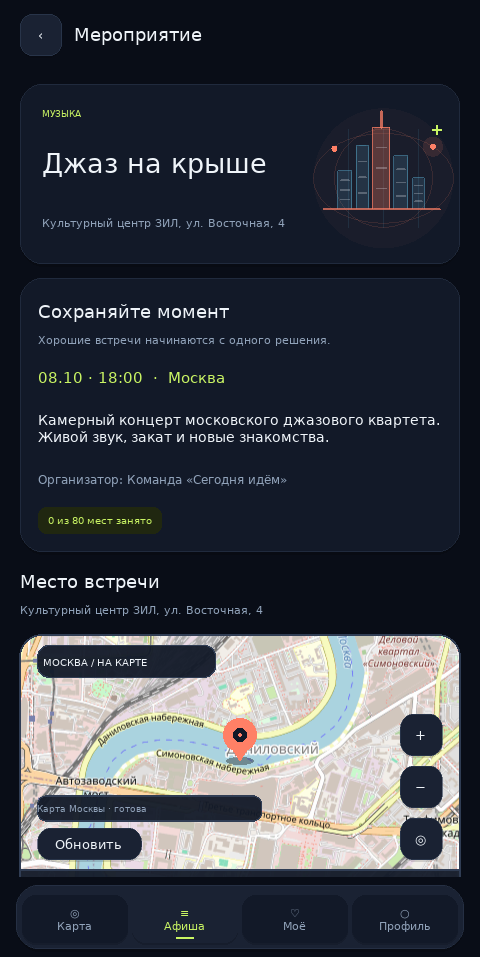
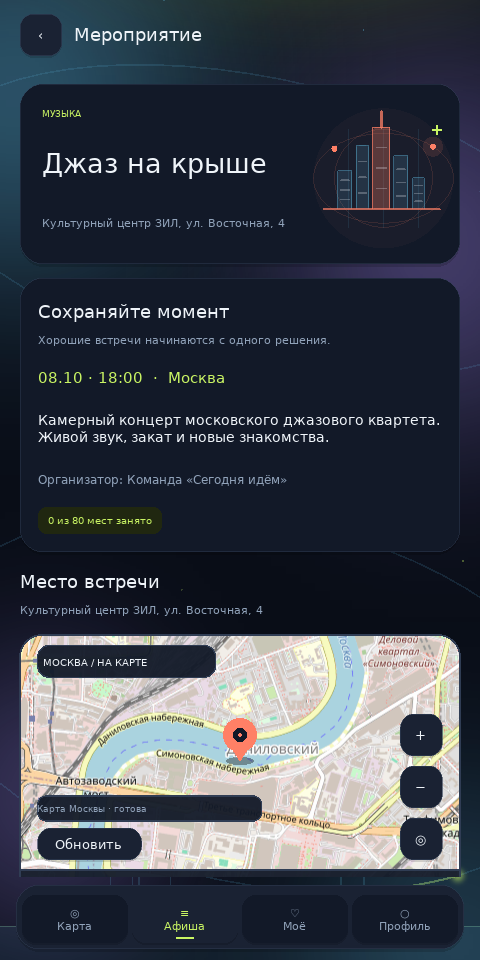
Verify Windows updates and document animated UI and phone setup

Changed region(s): [[0.0, 0.0, 1.0, 0.5], [0.0, 0.6562, 0.3438, 1.0], [0.5, 0.8125, 1.0, 1.0]]

diff --git a/scripts/capture_motion.py b/scripts/capture_motion.py
@@ -1,0 +1,155 @@
+"""Record the real Kivy auth/background animation without starting an API.
+
+Run with the client Python environment; Pillow is needed only for this capture:
+    pip install Pillow
+    python scripts/capture_motion.py
+
+For a headless Linux environment, set SDL_VIDEODRIVER=offscreen. The recording
+uses temporary settings and never submits forms, calls an API or shows a map.
+"""
+
+import argparse
+import os
+import sys
+import tempfile
+from pathlib import Path
+
+ROOT = Path(__file__).resolve().parents[1]
+sys.path.insert(0, str(ROOT / "client"))
+os.environ.setdefault("KIVY_HOME", str(ROOT / ".data/kivy-motion"))
+os.environ["TODAYGO_MAP_MODE"] = "offline"
+os.environ["TODAYGO_REDUCED_MOTION"] = "0"
+
+from kivy.clock import Clock
+from todaygo.application import TodayGoApp
+from todaygo.theme import Action, BG, CYAN, INK, LIME, MUTED, STROKE, SURFACE, SURFACE_HIGH, VIOLET
+
+
+def main():
+    parser = argparse.ArgumentParser(description=__doc__)
+    parser.add_argument("--output", type=Path, default=ROOT / "docs/animated-design.gif")
+    parser.add_argument("--fps", type=int, choices=range(1, 25), default=8)
+    parser.add_argument("--width", type=int, choices=range(180, 481), default=360)
+    args = parser.parse_args()
+    try:
+        from PIL import Image
+    except ImportError as exc:
+        raise SystemExit(
+            "Install the capture-only dependency: python -m pip install Pillow"
+        ) from exc
+
+    data = ROOT / ".data"
+    data.mkdir(exist_ok=True)
+    with tempfile.TemporaryDirectory(prefix="capture-motion-", dir=data) as temporary:
+        folder = Path(temporary)
+        settings = folder / "settings"
+        settings.mkdir()
+        screenshots = []
+
+        class MotionPreview(TodayGoApp):
+            @property
+            def user_data_dir(self):
+                return str(settings)
+
+            def build(self):
+                root = super().build()
+                self._start_event.cancel()
+                self._capture_event = None
+                self._timeline = []
+                self.go_auth()
+                return root
+
+            def run_api(self, fn, callback):
+                raise RuntimeError("The motion capture must not call the API")
+
+            def on_start(self):
+                def focus_email(_):
+                    self.screens["auth"].fields["email"].focus = True
+
+                def blur_email(_):
+                    self.screens["auth"].fields["email"].focus = False
+
+                def register(_):
+                    button = next(
+                        widget
+                        for widget in self.screens["auth"].walk()
+                        if isinstance(widget, Action) and widget.text == "Нет аккаунта? Регистрация"
+                    )
+                    button.trigger_action(duration=0.18)
+
+                for delay, action in (
+                    (1.0, focus_email),
+                    (1.7, blur_email),
+                    (2.1, register),
+                    (4.3, lambda _: self.go_connect()),
+                    (5.8, lambda _: self.go_auth()),
+                ):
+                    self._timeline.append(Clock.schedule_once(action, delay))
+                self._capture_event = Clock.schedule_interval(self._capture, 1 / args.fps)
+
+            def _capture(self, _):
+                target = folder / f"frame-{len(screenshots):03d}.png"
+                self.root.export_to_png(str(target))
+                screenshots.append(target)
+                if len(screenshots) >= 7 * args.fps:
+                    self.stop()
+                    return False
+
+            def on_stop(self):
+                if self._capture_event is not None:
+                    self._capture_event.cancel()
+                for event in self._timeline:
+                    event.cancel()
+                super().on_stop()
+
+        MotionPreview().run()
+        if len(screenshots) != 7 * args.fps:
+            raise RuntimeError("Capture stopped before all seven seconds were recorded")
+
+        frames = []
+        for filename in screenshots:
+            with Image.open(filename) as source:
+                height = round(source.height * args.width / source.width)
+                frames.append(
+                    source.convert("RGB").resize((args.width, height), Image.Resampling.LANCZOS)
+                )
+        # One palette for all frames prevents the gradients and text from flashing.
+        sw, sh = 96, round(frames[0].height * 96 / args.width)
+        atlas = Image.new("RGB", (sw * len(frames), sh))
+        for index, frame in enumerate(frames):
+            atlas.paste(frame.resize((sw, sh), Image.Resampling.LANCZOS), (index * sw, 0))
+        palette = atlas.quantize(
+            colors=256, method=Image.Quantize.MEDIANCUT, dither=Image.Dither.NONE
+        )
+        # Small white labels must stay white even when the gradients dominate the
+        # sampled image. Reserve the exact UI colours and a few anti-alias greys.
+        reserved = [BG, SURFACE, SURFACE_HIGH, STROKE, INK, MUTED, LIME, CYAN, VIOLET, (1, 1, 1, 1)]
+        for fraction in (0.15, 0.3, 0.45, 0.6, 0.75, 0.9):
+            reserved.append(
+                tuple(start + (end - start) * fraction for start, end in zip(SURFACE, INK))
+            )
+        colours = palette.getpalette()
+        for index, colour in enumerate(reserved, start=240):
+            colours[index * 3 : index * 3 + 3] = [round(channel * 255) for channel in colour[:3]]
+        palette.putpalette(colours)
+        paletted = [frame.quantize(palette=palette, dither=Image.Dither.NONE) for frame in frames]
+        # GIF durations have 10 ms precision, so alternate 120/130 ms at 8 fps.
+        durations = [
+            (round((i + 1) * 100 / args.fps) - round(i * 100 / args.fps)) * 10
+            for i in range(len(frames))
+        ]
+        args.output.parent.mkdir(parents=True, exist_ok=True)
+        paletted[0].save(
+            args.output,
+            save_all=True,
+            append_images=paletted[1:],
+            loop=0,
+            duration=durations,
+            disposal=2,
+            optimize=True,
+        )
+        print(f"Captured {len(frames)} real Kivy frames: {args.output}")
+
+
+if __name__ == "__main__":
+    main()

diff --git a/client/todaygo/screens.py b/client/todaygo/screens.py
@@ -766,7 +766,8 @@ class VerifyScreen(BaseScreen):
                 Paragraph(
                     text=(
                         "Сейчас включён режим разработки: письма не отправляются. "
-                        "Откройте READ_CODE_WINDOWS.bat в папке проекта и найдите код для своей "
+                        "На компьютере с сервером откройте READ_CODE_WINDOWS.bat "
+                        "в папке проекта и найдите код для своей "
                         "почты. Чтобы включить отправку писем, запустите CONFIGURE_EMAIL_WINDOWS.bat."
                     ),
                     size=11,
@@ -810,7 +811,7 @@ class VerifyScreen(BaseScreen):
 class ConnectionScreen(BaseScreen):
     def build(self):
         self.reset()
-        self.header("Подключить приложение", back=False)
+        self.header("Подключить приложение", back=not self.app.connection_required)
         scroll, column = scroll_column(18)
         self.layout.add_widget(scroll)
         column.add_widget(

diff --git a/scripts/capture_client.py b/scripts/capture_client.py
@@ -58,6 +58,14 @@ def start(_):
             ("home", "moscow-map.png", lambda: None),
             ("auth", "login.png", app.go_auth),
             ("auth", "registration.png", lambda: app.screens["auth"].build("register")),
+            (
+                "verify",
+                "email-code.png",
+                lambda: app.go_verify(
+                    {"challenge_id": "preview-only-challenge", "delivery": "development_file"}
+                ),
+            ),
+            ("connect", "android-connect.png", connection_preview),
             ("profile", "profile.png", app.go_profile),
             ("list", "event-list.png", lambda: app.go_list("all")),
             ("detail", "event-detail.png", lambda: app.go_detail(app.events[0]["id"])),
@@ -70,6 +78,11 @@ def start(_):
 def small_home():
     Window.size = (360, 700)
     app.go_home()
+
+
+def connection_preview():
+    app.go_connect()
+    app.screens["connect"].server.text = ""
 
 
 Clock.schedule_once(start, 4)

diff --git a/client/todaygo/application.py b/client/todaygo/application.py
@@ -101,6 +101,7 @@ class TodayGoApp(App):
         except ApiError:
             self.api = ApiClient()
             needs_connection = True
+        self.connection_required = needs_connection
         root = FloatLayout()
         self.backdrop = AmbientBackdrop()
         root.add_widget(self.backdrop)
@@ -253,6 +254,7 @@ class TodayGoApp(App):
         def connected(api):
             self.api.session.close()
             self.api = api
+            self.connection_required = False
             self.save_server()
             self.go_home()
 
@@ -276,6 +278,8 @@ class TodayGoApp(App):
         )
 
     def key(self, window, key, *_):
+        if key == 27 and self.manager.current == "connect" and self.connection_required:
+            return False
         if key == 27 and self.manager.current != "home":
             self.go_home()
             return True

diff --git a/scripts/configure_email.py b/scripts/configure_email.py
@@ -143,7 +143,7 @@ def main() -> int:
         )
     except ValidationError:
         print(
-            "Настройки SMTP некорректны. Проверьте сервер, порт и SSL/STARTTLS. Файл .env сохранён."
+            "Настройки SMTP некорректны. Проверьте сервер, порт и SSL/STARTTLS. Файл .env не изменён."
         )
         return 1
     # Explicit local choice: no connection or real message is sent before this prompt.

diff --git a/docs/VALIDATION.md b/docs/VALIDATION.md
@@ -5,7 +5,7 @@
 | Проверка | Результат |
 |---|---|
 | Серверные тесты SQLite 1.2 | **45 passed**, 0 skipped |
-| Серверные тесты PostgreSQL 16 | 19 passed в предыдущей версии; проверка набора 1.2 выполняется отдельно |
+| Те же серверные тесты PostgreSQL 16 | **45 passed**, 0 skipped; миграции upgrade/check/downgrade/upgrade успешны |
 | Клиентские HTTP, UI, фон, подключение и картографические тесты Kivy 1.2 | **38 passed**, 0 skipped |
 | Нажатия кнопок | Реальные pointer down/up для Action и NavAction с анимацией и без неё; callback выполняется один раз |
 | Миграции SQLite / PostgreSQL | upgrade → check → downgrade → upgrade успешно |
@@ -21,8 +21,10 @@
 | Самостоятельный ремонт Windows-копии | PowerShell 7.5: синтаксис и 11 сценариев поиска/ремонта/отказа успешны; результат ремонта проверен четырьмя реальными нажатиями Kivy |
 | Почтовая доставка 1.2 | 26 тестов: SSL465/STARTTLS587, TLS-проверка, безопасные ошибки SMTP, rollback и сохранение .env в мастере Mail.ru |
 | Ночной фон и Android-подключение | Lifecycle, reduced motion, реальный ввод, первый запуск телефона и проверка настоящего API успешны в Linux |
+| Обновление Windows-копии | PowerShell 7.5: 14 сценариев и настоящее HTTPS-обновление старого ZIP; исходники/backup сверены, база/.env/venv сохранены |
+| Сервер для телефона | Реальные health/events по LAN, Host 400, fallback портов, общий lock, Ctrl+C и сохранение чужого listener проверены в Linux |
 
-Итого **83 отдельных теста** версии 1.2. Клиентские HTTP/UI сценарии запускают отдельный настоящий FastAPI и выполняют регистрацию, почтовую 2FA, создание, открытие по маркеру, участие, редактирование, удаление с подтверждением и выход. Дополнительно проверено сохранение видимой карты и доступных кнопок при размере окна 360 × 700. Девять картографических тестов проверяют повреждённый и устаревший кэш, отказы обоих источников, повторное подключение, реальные текстуры Kivy, сохранение координат/маркеров при переходах и изменении размера окна, отсутствие запросов после закрытия карты. Для воспроизводимости в этих тестах HTTP-тайлы подменены локальными PNG и ошибками транспорта; доставка настоящих улиц проверена отдельно загрузкой и просмотром тайлов обоих провайдеров.
+Итого **83 отдельных теста** версии 1.2; 45 серверных дополнительно выполнены на PostgreSQL 16. Клиентские HTTP/UI сценарии запускают отдельный настоящий FastAPI и выполняют регистрацию, почтовую 2FA, создание, открытие по маркеру, участие, редактирование, удаление с подтверждением и выход. Дополнительно проверено сохранение видимой карты и доступных кнопок при размере окна 360 × 700. Девять картографических тестов проверяют повреждённый и устаревший кэш, отказы обоих источников, повторное подключение, реальные текстуры Kivy, сохранение координат/маркеров при переходах и изменении размера окна, отсутствие запросов после закрытия карты. Для воспроизводимости в этих тестах HTTP-тайлы подменены локальными PNG и ошибками транспорта; доставка настоящих улиц проверена отдельно загрузкой и просмотром тайлов обоих провайдеров.
 
 Журнал запуска пользователя на Windows выявил конфликт свойства анимации `press` со встроенным событием `ButtonBehavior.on_press`. Регрессионный тест с реальным нажатием воспроизвёл тот же TypeError до исправления. Свойство переименовано в `press_progress`; четыре проверки кнопок и полный клиентский набор прошли в Linux. Основной UI-сценарий теперь удерживает состояние нажатия несколько кадров перед отпусканием, включая регистрацию, CRUD и выход. Исправленная версия на компьютере пользователя ещё не проверена.
 

diff --git a/docs/ANDROID.md b/docs/ANDROID.md
@@ -6,14 +6,14 @@
 
 Откройте [Releases проекта](https://github.com/dhdhsbdbd132-sys/ssdsad/releases) на телефоне и скачайте файл с расширением `.apk` из раздела Assets. При установке разрешите вашему браузеру установку этого приложения. Это debug-сборка для проверки проекта, без публикации в Google Play.
 
-Для обновления установите новый APK поверх предыдущего. Параметры подключения сохраняются в приватном каталоге приложения. Пароли и токены на диске не сохраняются.
+Параметры подключения сохраняются в приватном каталоге приложения. Пароли и токены на диске не сохраняются. При новой CI-сборке debug-подпись может измениться: если Android не позволяет установить обновление поверх предыдущего, удалите старое приложение и установите новый APK. Тогда адрес сервера на телефоне нужно ввести заново; аккаунты и события в базе на компьютере сохранятся.
 
 ## Подключение к Windows-компьютеру через Wi-Fi
 
 1. Подключите телефон и компьютер к одной сети Wi-Fi.
 2. На компьютере откройте `START_ANDROID_SERVER_WINDOWS.bat`. Оставьте окно сервера открытым. Если Windows спросит о доступе Python к сети, разрешите доступ в вашей частной домашней сети.
 3. Скопируйте адрес из окна сервера, например `http://192.168.1.15:8000`.
-4. При первом запуске APK откроется экран подключения. Введите адрес компьютера и включите переключатель подключения по HTTP в своей сети Wi-Fi. Нажмите «Подключиться».
+4. При первом запуске APK откроется экран подключения. Введите адрес компьютера и отметьте «Сервер на моём ПК через Wi-Fi». Нажмите «Проверить и подключиться».
 5. Откроется главный экран. Регистрация и вход используют код по почте. Для реальной отправки настройте Mail.ru на компьютере через `CONFIGURE_EMAIL_WINDOWS.bat`.
 
 `localhost` и `127.0.0.1` на телефоне означают сам телефон. Адрес компьютера может измениться после переподключения к Wi-Fi; изменить его можно через экран подключения в профиле. Если смартфон находится в гостевой Wi-Fi-сети, маршрутизатор может запрещать связь с компьютером.

diff --git a/README.md b/README.md
@@ -8,7 +8,7 @@
 
 Версия 1.2: общий анимированный ночной фон с цветными переливами, световыми орбитами и мерцающими звёздами; плавное появление карточек и экранов, анимированные кнопки, поля и маркеры. На небольших экранах карта получает больше места; события открываются по маркерам и через афишу. Вход — пароль и почтовый код; Google-вход удалён. [Оформление и анимации](docs/DESIGN.md).
 
-[Анимации](docs/animated-design.gif) · [Вход](docs/login.png) · [Регистрация](docs/registration.png) · [Афиша](docs/event-list.png) · [Событие](docs/event-detail.png) · [Профиль](docs/profile.png) · [Окно 360 × 700](docs/moscow-small.png).
+[Анимации](docs/animated-design.gif) · [Вход](docs/login.png) · [Регистрация](docs/registration.png) · [Почтовый код](docs/email-code.png) · [Подключение](docs/android-connect.png) · [Афиша](docs/event-list.png) · [Событие](docs/event-detail.png) · [Профиль](docs/profile.png) · [Окно 360 × 700](docs/moscow-small.png).
 
 ## Windows: запуск двойным щелчком
 
